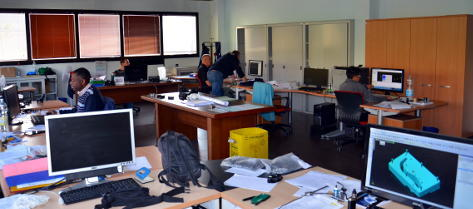
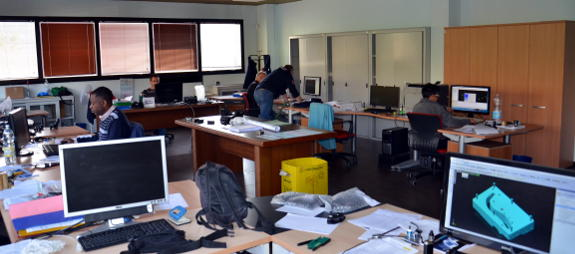
Impostata la giusta larghezza per le foto. Inserito le foto con maggiore risoluzione. Aggiunto l'header alla tabella dei contatti

diff --git a/index.html b/index.html
@@ -106,7 +106,7 @@ Importanti aziende che hanno fatto di S.T.L. un partner integrato nel loro ciclo
 							<div class="row">
 								<div class="6u 12u(narrower)">
 									<section>
-										<img src="images/pic01.jpg" alt="" />
+										<div class="image featured"><img src="images/pic01.jpg" alt="" /></div>
 										<header>
 											<h3>Progettazione</h3>
 										</header>
@@ -117,7 +117,7 @@ Il personale impiegato è altamente specializzato e vanta decenni d’esperienza
 								</div>
 								<div class="6u 12u(narrower)">
 									<section>
-										<img src="images/pic02.jpg" alt="" />
+										<div class="image featured"><img class="image fit" src="images/pic02.jpg" alt="" /></div>
 										<header>
 											<h3>Costruzione stampi</h3>
 										</header>
@@ -132,7 +132,7 @@ Il personale impiegato è altamente specializzato e può vantare decenni d’esp
 							<div class="row">
 								<div class="6u 12u(narrower)">
 									<section>
-										<img src="images/pic03.jpg" alt="" />
+										<div class="image featured"><img src="images/pic03.jpg" alt="" /></div>
 										<header>
 											<h3>Stampaggio</h3>
 										</header>
@@ -143,7 +143,7 @@ Le resine termoplastiche utilizzate per lo stampaggio ad iniezione sono certific
 								</div>
 								<div class="6u 12u(narrower)">
 									<section>
-										<img src="images/pic04.jpg" alt="" />
+										<div class="image featured"><img src="images/pic04.jpg" alt="" /></div>
 										<header>
 											<h3>Lavorazioni meccaniche di precisione</h3>
 										</header>
@@ -261,7 +261,7 @@ Le resine termoplastiche utilizzate per lo stampaggio ad iniezione sono certific
 										<header>
 											<h3>Dove siamo</h3>
 										</header>
-										<iframe frameborder="0" scrolling="no" marginheight="0" marginwidth="0" src="https://www.openstreetmap.org/export/embed.html?bbox=7.550327181816102%2C45.07158472917905%2C7.559285759925843%2C45.07486924192885&amp;layer=mapnik&amp;marker=45.07322700915003%2C7.554806470870972" style="width: 100%; height: 100%; height: 15em"></iframe>
+										<iframe frameborder="0" scrolling="no" marginheight="0" marginwidth="0" src="https://www.openstreetmap.org/export/embed.html?bbox=7.550327181816102%2C45.07158472917905%2C7.559285759925843%2C45.07486924192885&amp;layer=mapnik&amp;marker=45.07322700915003%2C7.554806470870972" style="width: 100%; height: 100%; height: 16em"></iframe>
 									</section>
 								</div>
 								<div class="6u 12u(narrower)">
@@ -270,11 +270,16 @@ Le resine termoplastiche utilizzate per lo stampaggio ad iniezione sono certific
 											<h3>Contatti</h3>
 										</header>
 										<table class="default">
-											<tr><td><b>Indirizzo</b></td><td>Corso Francia, 221/K - 10098 Rivoli (TO)</td></tr>
-											<tr><td><b>Telefono</b></td><td>(+39) 011-703266</td></tr>
-											<tr><td><b>Fax</b></td><td>(+39) 011-7073122</td></tr>
-											<tr><td><b>Email</b></td><td>info@stltorino.it</td></tr>
-											<tr><td><b>Partita IVA</b></td><td>05162830011</td></tr>
+											<thead>
+												<tr><th colspan="3">S.T.L. S.r.l.</th></tr>
+											</thead>
+											<tbody>
+												<tr><td><b>Indirizzo</b></td><td>Corso Francia, 221/K - 10098 Rivoli (TO)</td></tr>
+												<tr><td><b>Telefono</b></td><td>(+39) 011-703266</td></tr>
+												<tr><td><b>Fax</b></td><td>(+39) 011-7073122</td></tr>
+												<tr><td><b>Email</b></td><td>info@stltorino.it</td></tr>
+												<tr><td><b>Partita IVA</b></td><td>05162830011</td></tr>
+											</tbody>
 										</table>
 									</section>
 								</div>
